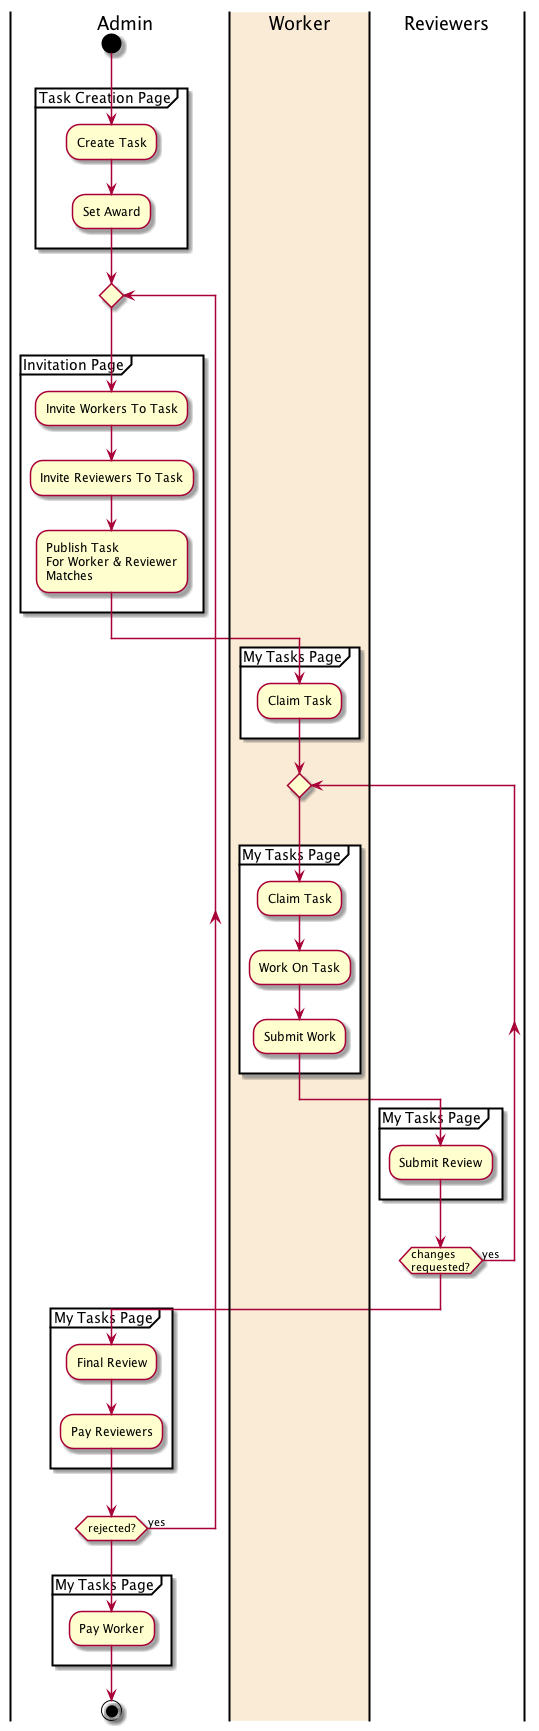
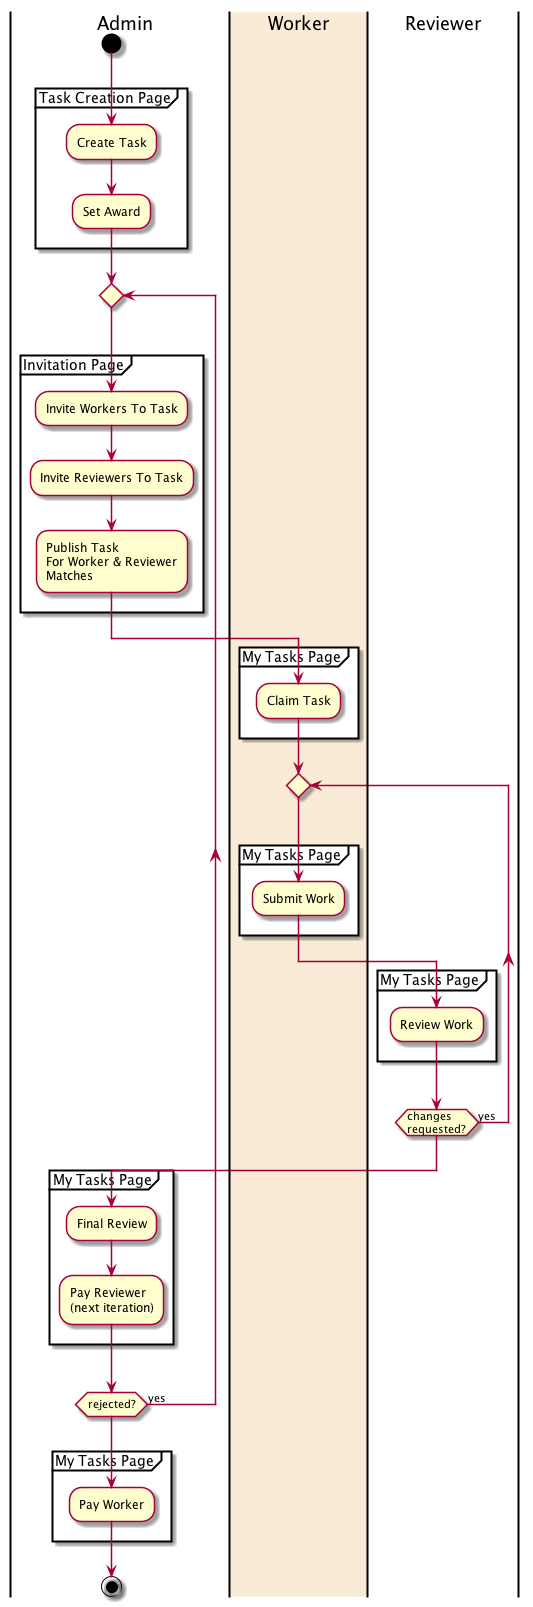
update task diagrams

Changed region(s): [[0.03, 0.0, 0.9606, 0.9956], [0.7505, 0.0, 0.9006, 0.0311], [0.5103, 0.0, 0.6004, 0.0311]]

diff --git a/doc/task-flow.md b/doc/task-flow.md
@@ -1,4 +1,30 @@
 ```plantuml
+@startuml task-states
+hide empty description
+
+state "My Tasks" as Started {
+    [*] --> Pending : Admin\nCreates Task
+    Pending -right-> Available  : Admin\nInvites and/or Publishes
+    Available -down-> InProgress : A Worker\nClaims Task
+    InProgress -right-> Available: Worker\nQuits Task
+    InProgress -right-> Expired: max time exceeded
+    Expired: Inform Worker
+    Expired: Inform Project Admin
+    Expired -left-> InProgress : Admin extends
+    Expired -up-> Available: Admin\nInvites and/or Publishes
+}
+
+state "Task Review" as Review {
+    InProgress -down-> ReadyForReview: Worker\nSubmits Work
+    ReadyForReview -up-> InProgress: Reviewer\nRequests Changes
+    ReadyForReview -right-> Reviewed: Reviewer\nAccepts
+    Reviewed -right-> [*]: Admin Pays Via Crypto Wallet
+}
+
+@enduml
+```
+
+```plantuml
 @startuml task-activity
 |Admin|
 start
@@ -22,20 +48,17 @@ partition "My Tasks Page" {
     partition "My Tasks Page" {
         |#AntiqueWhite|Worker|
         |Worker|
-        :Claim Task;
-        |Worker|
-        :Work On Task;
         :Submit Work;
     }
     partition "My Tasks Page" {
-        |Reviewers|
-        :Submit Review;
+        |Reviewer|
+        :Review Work;
     }
     repeat while (changes\nrequested?) is (yes)
     partition "My Tasks Page" {
         |Admin|
         :Final Review;
-        :Pay Reviewers;
+        :Pay Reviewer\n(next iteration);
     }
 
 repeat while (rejected?) is (yes)
@@ -44,39 +67,5 @@ partition "My Tasks Page" {
     :Pay Worker;
 }
 stop
-@enduml
-```
-
-```plantuml
-@startuml task-states
-hide empty description
-state "Task Setup" as Setup {
-    [*] -right-> Pending : Admin\nCreates Task
-    Pending : Configure Details
-    Pending : Set Acceptance Criteria
-    Pending : Set Token Award
-}
-state "Task Started" as Started {
-    Pending --> Available  : Admin\nInvites and/or Publishes
-    Available -down-> InProgress : A Worker\nClaims Task
-    InProgress -right-> Expired: max time exceeded
-    Expired: Inform Worker
-    Expired: Inform Project Admin
-    Expired -up-> Available: Admin\nInvites and/or Publishes
-}
-
-state "Task Review" as Review {
-    InProgress -down-> ReadyForReview: Worker\nSubmits Work
-    ReadyForReview -up-> InProgress: Reviewer 1\nRequests Changes
-    ReadyForReview --> PartiallyReviewed: Reviewer 1\nAccepts
-    ReadyForReview -up-> Pending: Reviewer 1\nRejects
-    PartiallyReviewed -up-> InProgress: Reviewer 2\nRequests Changes
-    PartiallyReviewed -up-> Pending: Reviewer 2\nRejects
-}
-
-state "Task Payment" as Payment {
-    PartiallyReviewed -down-> Reviewed: Reviewer 2\nAccepts
-    Reviewed -right-> [*]: Admin Pays Via Crypto Wallet
-}
 @enduml
 ```
